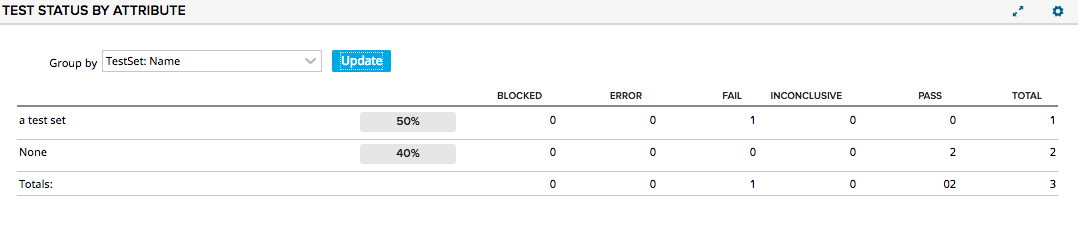
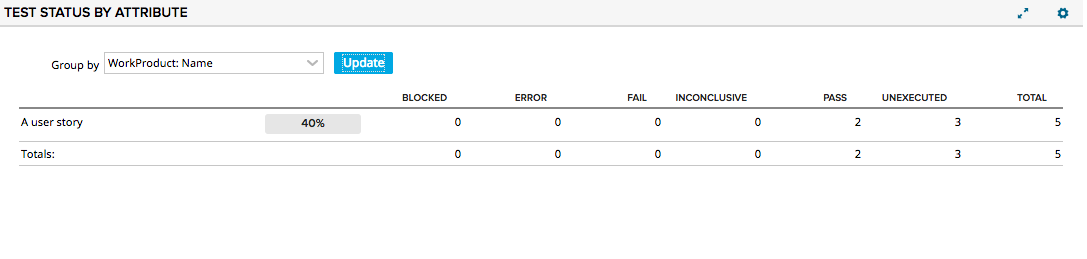
Add column for unexecuted

diff --git a/test-status-by-attribute/src/javascript/app.js b/test-status-by-attribute/src/javascript/app.js
@@ -60,26 +60,26 @@ Ext.define("test-status-by-attribute", {
             var defn = f.attributeDefinition;
 
             if ((defn && defn.Constrained && defn.AttributeType != "COLLECTION") ||
-                f.name === 'TestFolder'){
-              yAxisOptions.push({
-                 displayName: 'TestCase: ' + f.displayName,
-                 modelName: 'TestCase',
-                 fieldName: f.name,
-                 queryName: f.name
-              })
+              f.name === 'TestFolder'){
+                yAxisOptions.push({
+                    displayName: 'TestCase: ' + f.displayName,
+                    modelName: 'TestCase',
+                    fieldName: f.name,
+                    queryName: f.name
+                });
             }
         });
 
         Ext.Array.each(testSetFields, function(f){
             var defn = f.attributeDefinition;
             if ((defn && defn.Constrained && defn.AttributeType != "COLLECTION" ) ||
-                f.name === 'Name'){
-              yAxisOptions.push({
-                 displayName: 'TestSet: ' + f.displayName,
-                 modelName: 'TestSet',
-                 fieldName: f.name,
-                 queryName: 'TestSets.' + f.name
-              })
+              f.name === 'Name'){
+                yAxisOptions.push({
+                    displayName: 'TestSet: ' + f.displayName,
+                    modelName: 'TestSet',
+                    fieldName: f.name,
+                    queryName: 'TestSets.' + f.name
+                });
             }
         });
 
@@ -141,17 +141,22 @@ Ext.define("test-status-by-attribute", {
             itemId:'display_box'
         });
     },
-    _fetchTimeboxData: function(yAxisFieldName){
-       this.logger.log('_fetchTimeboxData', this.getContext().getTimeboxScope());
-       var deferred = Ext.create('Deft.Deferred');
-       this.records_in_timebox = null;
-       if (!this.getContext().getTimeboxScope()){
-           deferred.resolve(null);
-       } else {
-           var timebox = this.getContext().getTimeboxScope();
+
+    _fetchTimeboxData: function(yAxisFieldName,yAxisModelName){
+        this.logger.log('_fetchTimeboxData', yAxisFieldName, yAxisModelName, this.getContext().getTimeboxScope());
+        var deferred = Ext.create('Deft.Deferred');
+        this.records_in_timebox = null;
+        if (!this.getContext().getTimeboxScope()){
+            deferred.resolve(null);
+        } else {
+            var timebox = this.getContext().getTimeboxScope();
             this.logger.log('timeboxScope', this.getContext().getTimeboxScope().getQueryFilter());
+            var models = ['TestSet','HierarchicalRequirement','Defect'];
+            if ( yAxisModelName == "TestSet" ) { models = [yAxisModelName]; }
+            if ( yAxisModelName == "WorkProduct" ) { models = ['HierarchicalRequirement','Defect']; }
+
             Rally.technicalservices.WsapiToolbox.fetchArtifacts({
-                 models: ['TestSet','HierarchicalRequirement','Defect'],
+                 models: models,
                  fetch: ['ObjectID','TestCaseCount','TestCases','LastVerdict',yAxisFieldName],
                  filters: this.getContext().getTimeboxScope().getQueryFilter()
                }).then({
@@ -163,7 +168,7 @@ Ext.define("test-status-by-attribute", {
                   }
                });
         }
-       return deferred.promise;
+        return deferred.promise;
     },
     _updateDisplay: function(){
         var me = this,
@@ -177,7 +182,7 @@ Ext.define("test-status-by-attribute", {
         this.setLoading();
         Deft.Chain.pipeline([
             function(){
-               return me._fetchTimeboxData(yAxisFieldName);
+               return me._fetchTimeboxData(yAxisFieldName,yAxisModelName);
             },
             function(records_in_timebox) {
                 return me._fetchData(yAxisModelName,yAxisFieldName, records_in_timebox);
@@ -189,7 +194,7 @@ Ext.define("test-status-by-attribute", {
                 return me._addSummaryColumn(counts);
             },
             function(counts) {
-                return me._buildGrid(counts);
+                return me._buildGrid(counts,yAxisModelName);
             }],this).then({
             failure: this._showErrorNotification,
             success: null,
@@ -317,8 +322,6 @@ Ext.define("test-status-by-attribute", {
                                 test_case_count: 0
                             };
                         }
-                        var test_case_count = base_record.get('TestCaseCount');
-                        results_by_fieldvalue[aggregation_name].test_case_count = results_by_fieldvalue[aggregation_name].test_case_count + test_case_count;
                     }
                 });
         }
@@ -351,10 +354,17 @@ Ext.define("test-status-by-attribute", {
                 var value = count[verdict] || 0;
                 total = total + value;
             });
-            count.Total = total;
-            if ( Ext.isNumber(count.test_case_count) && count.test_case_count < count.Total) {
-                count.test_case_count = count.Total;
+            count.test_case_count_executed = total;
+            if ( Ext.isNumber(count.test_case_count) ) {
+                if ( count.test_case_count < count.test_case_count_executed ) {
+                    count.test_case_count = count.test_case_count_executed;
+                }
+                count.test_case_count_unexecuted = count.test_case_count - count.test_case_count_executed;
+                count.Total = count.test_case_count;
+            } else {
+                count.Total = total;
             }
+
         });
         return counts;
     },
@@ -374,16 +384,16 @@ Ext.define("test-status-by-attribute", {
     /*
      * Given a hash of counts (key is field value and value is hash of verdict counts)
      */
-    _buildGrid: function(counts){
-        this.logger.log('_buildGrid', counts);
-        var x_values = this._getXValuesFromCounts(counts);
+    _buildGrid: function(counts,yAxisModelName){
+        this.logger.log('_buildGrid', counts, yAxisModelName);
+        var x_values = this._getXValuesFromCounts(counts,yAxisModelName);
         var rows = Ext.Object.getValues(counts);
 
         this.logger.log('cols',x_values);
         this.logger.log('rows',rows);
 
         var store = Ext.create('Rally.data.custom.Store',{
-            fields: this._getModelFieldNames(),
+            fields: this._getModelFieldNames(yAxisModelName),
             data: rows,
             pageSize: rows.length
         });
@@ -421,19 +431,31 @@ Ext.define("test-status-by-attribute", {
                 };
             }
 
-            if ( value == "executed" ) {
+            if ( value == "test_case_count_executed" ) {
                 return {
                     xtype: 'templatecolumn',
                     tpl: Ext.create('Rally.ui.renderer.template.progressbar.ProgressBarTemplate',{
                         shouldShowPercentDone: function(recordData) {
-                            console.log(recordData);
-                            return recordData.Total > 0 && Ext.isNumber(recordData.test_case_count);
+                            return recordData.Total > 0 && Ext.isNumber(recordData.test_case_count_executed) && Ext.isNumber(recordData.test_case_count_unexecuted);
                         },
                         calculatePercent: function(recordData){
-                            return Math.round(recordData.Total * 100/ recordData.test_case_count);
+                            return Math.round(recordData.test_case_count_executed * 100/ recordData.Total);
                         }
                     })
                 };
+            }
+
+            if ( value == "test_case_count_unexecuted" ) {
+                return {
+                    dataIndex:value,
+                    text:"Unexecuted",
+                    summaryType: 'sum',
+                    align: 'right',
+                    renderer: function(value){
+                        return value || 0;
+                    }
+            };
+
             }
             return {
                 dataIndex:value,
@@ -448,16 +470,23 @@ Ext.define("test-status-by-attribute", {
         return columns;
     },
 
-    _getModelFieldNames: function() {
-        var names = ["name","executed","test_case_count"];
+    _getModelFieldNames: function(yAxisModelName) {
+        var names = ["name","test_case_count_executed","test_case_count"];
         names = names.concat(this.possibleVerdicts).concat('Total');
+        if ( yAxisModelName != "TestCase" ) {
+            names.push('test_case_count_unexecuted');
+        }
         return Ext.Array.unique(names);
 
     },
 
-    _getXValuesFromCounts: function(counts) {
-        var names = ["name","executed"];
-        names = names.concat(this.possibleVerdicts).concat('Total');
+    _getXValuesFromCounts: function(counts,yAxisModelName) {
+        var names = ["name","test_case_count_executed"];
+        names = names.concat(this.possibleVerdicts);
+        if ( yAxisModelName != "TestCase" ) {
+            names.push('test_case_count_unexecuted');
+        }
+        names.push('Total');
         return Ext.Array.unique(names);
     },
 

diff --git a/test-status-by-attribute/README.md b/test-status-by-attribute/README.md
@@ -16,11 +16,12 @@ to testcases that are associated with the timebox via testcase or testset
 * When the app is timebox scoped and the parent record type for counting is not the testcase
 type, then there will be a percentage executed bar
 
-* When the the percentage executed bar is showing, the "None" row will include for calculation TestCases
-that got picked up by the timebox scope but are not associated with the proper type.  For example, if
-TestSet:Name is selected in the dropdown, then the test set name is the row key unless the test case was
-picked up because its Story is in the timebox.  For test cases associated with a story and a testset in the
-same timebox, the total count will be caught twice.
+* When the app is timebox scoped, the results will only contain test cases that are associated with
+the items that are associated with the timebox -- and only if those items are the type selected.  That
+is, if you choose TestSet: Name from the dropdown, only test cases related to the test sets associated
+with the timebox will be shown.  Same is true for WorkProduct: x.  However, if you choose one of the 
+TestCase attributes, then test cases that belong to stories, defects or test sets that are associated
+with the timebox will be shown and calculated.
 
 ![screenshot with execution](./images/screenshot_execution.png "execution")
 
